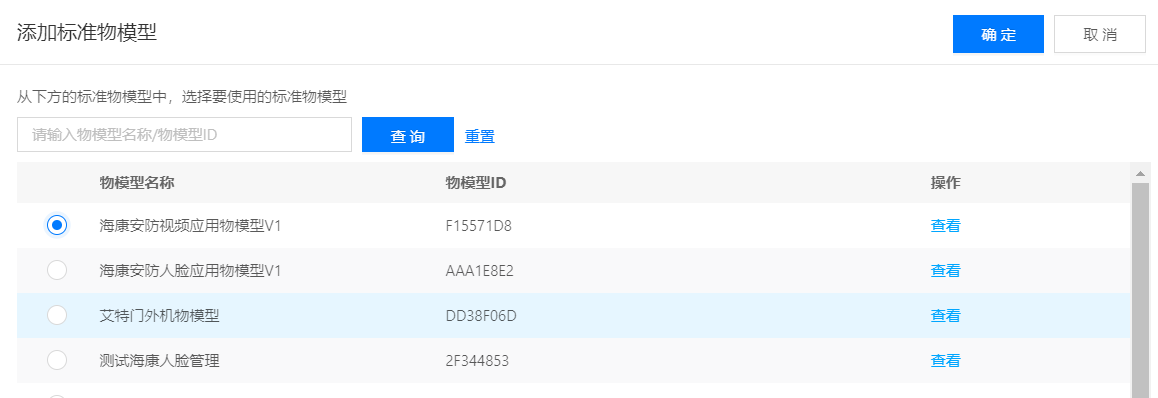
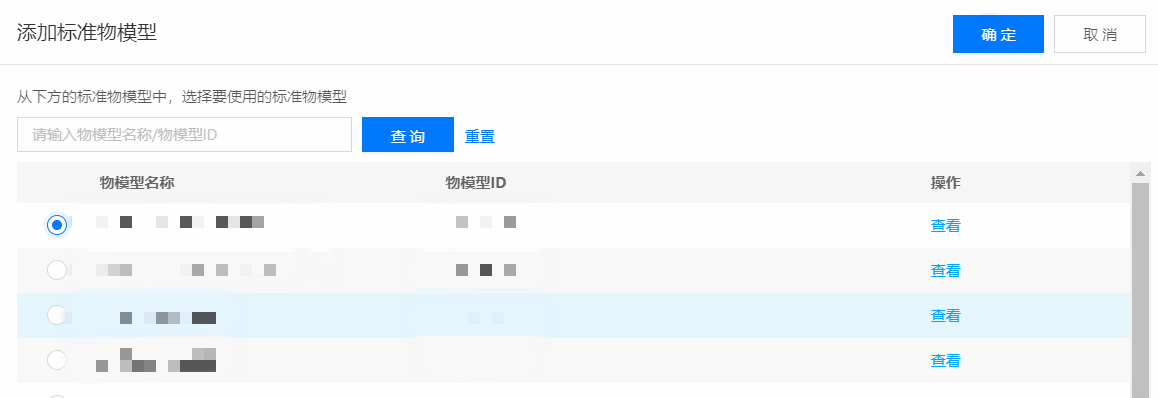
图片添加马赛克

diff --git a/documentation/IoT/IoT-Estate/Introduction/Product-Overview.md b/documentation/IoT/IoT-Estate/Introduction/Product-Overview.md
@@ -1,6 +1,6 @@
 # 产品概述
 
-智能生活物联网平台是一个将社区内的智能硬件设备进行统一接入与管理的平台，并提供统一标准的应用接入服务来实现对设备的管理和控制。平台采取租户模式，为不同用户提供统一化、标准化的云上租赁服务，用户可按需购买并创建接入项目和对接应用。平台提供安全可靠的设备连接通信能力与管理能力，帮助用户将海量设备数据采集上云，同时提供了设备数据转发，设备存储到京东云众多云产品服务，极大降低用户设备对接管理成本
+智能生活物联网平台是一个将社区内的智能硬件设备进行统一接入与管理的平台，并提供统一标准的应用接入服务来实现对设备的管理和控制。平台采取租户模式，为不同用户提供统一化、标准化的云上租赁服务，用户可按需购买并创建接入项目和对接应用。平台提供安全可靠的设备连接通信能力与管理能力，帮助用户将海量设备数据采集上云，同时提供了设备数据转发，设备存储到京东云众多云产品服务，极大降低用户设备对接管理成本。
 
 智能生活物联网平台的主要功能包括：
 

diff --git a/documentation/IoT/IoT-Estate/Operation-Guide/Device-Manager/Create-Device.md b/documentation/IoT/IoT-Estate/Operation-Guide/Device-Manager/Create-Device.md
@@ -6,11 +6,11 @@
 
 3.点击页面右上方 **创建**
 
-![管理设备](../../../../../image/IoT/IoT-Estate/Device-Manager/Manage-Device.png)
+![管理设备](../../../../../image/IoT/IoT-Estate/Device-Manager/Manage-Device.jpg)
 
 4.填写设备的基本信息、设备名称、MAC地址等
 
-![注册设备](../../../../../image/IoT/IoT-Estate/Device-Manager/Create-Device.png)
+![注册设备](../../../../../image/IoT/IoT-Estate/Device-Manager/Create-Device.jpg)
 
 **基本信息**
 - 选择产品：下拉选择要创建设备所属产品
@@ -36,11 +36,11 @@
 
 可根据ID编号，设备名称，所属产品，设备状态，节点类型等条件进行设备信息查询。点击重置可清空已选查询条件
 
-![查询设备](../../../../../image/IoT/IoT-Estate/Device-Manager/Query-Device.png)
+![查询设备](../../../../../image/IoT/IoT-Estate/Device-Manager/Query-Device.jpg)
 
 
  ## 删除设备
 
 在设备列表页面点击要删除的设备对应的**删除**按钮，输入当前登录用户密码进行验证，点击**删除**按钮
 
-![删除设备](../../../../../image/IoT/IoT-Estate/Device-Manager/Delete-Device.png)
+![删除设备](../../../../../image/IoT/IoT-Estate/Device-Manager/Delete-Device.jpg)

diff --git a/documentation/IoT/IoT-Estate/Developer-Guide/Device-SDK-Introduction.md b/documentation/IoT/IoT-Estate/Developer-Guide/Device-SDK-Introduction.md
@@ -1,6 +1,6 @@
 # 概述
 
-设备厂商通过集成设备SDK的方式来实现设备接入智能生活物联网平台。注意：集成的设备必须要支持TCP/IP协议，其他非IP设备需要通过网关采用MQTT协议才能接入物联管理平台。 本平台提供的SDK面向MQTT Java语言开发者。本文档用于指导开发者如何实现设备的快速接入，如果开发者需要了解SDK细节，可参考用户开发手册
+设备厂商通过集成设备SDK的方式来实现设备接入智能生活物联网平台。注意：集成的设备必须要支持TCP/IP协议，其他非IP设备需要通过网关采用MQTT协议才能接入物联管理平台。 本平台提供的SDK面向MQTT Java语言开发者。本文档用于指导开发者如何实现设备的快速接入，如果开发者需要了解SDK细节，可参考用户开发手册。
 
 # 获取SDK开发包
 目前SDK提供了Java语言开发包，点击下载  [设备直连SDK-Java](../Related-Resources/设备直连SDK-Java.zip)

diff --git a/documentation/IoT/IoT-Estate/Operation-Guide/Device-Manager/Device-Info.md b/documentation/IoT/IoT-Estate/Operation-Guide/Device-Manager/Device-Info.md
@@ -10,20 +10,20 @@
 
 3.设备管理页可根据设备名称、设备ID、节点类型、设备状态、档案信息来进行搜索
 
-![编辑设备](../../../../../image/IoT/IoT-Estate/Device-Manager/Device-Info.png)
+![编辑设备](../../../../../image/IoT/IoT-Estate/Device-Manager/Device-Info.jpg)
 
 
 ### 证书下载
 
 在设备信息页面点击 设备证书栏的**点击下载**，即可下载设备证书
 
-![设备证书-档案](../../../../../image/IoT/IoT-Estate/Device-Manager/Certify-Profile.png)
+![设备证书-档案](../../../../../image/IoT/IoT-Estate/Device-Manager/Certify-Profile.jpg)
 
 ## 管理设备影子
 
 在编辑设备页点击设备影子tab，选择要修改的设备属性，进行下发
 
-![设备影子](../../../../../image/IoT/IoT-Estate/Device-Manager/Device-Shadow.png)
+![设备影子](../../../../../image/IoT/IoT-Estate/Device-Manager/Device-Shadow.jpg)
 
 ## 子设备管理
 

diff --git a/documentation/IoT/IoT-Estate/Operation-Guide/Project-Manager/Manage-Project-Device.md b/documentation/IoT/IoT-Estate/Operation-Guide/Project-Manager/Manage-Project-Device.md
@@ -7,16 +7,16 @@
 2.在右侧滑窗中的设备列表里，勾选想要添加到项目中的设备
 
 
-![项目设备](../../../../../image/IoT/IoT-Estate/Project-Manager/Project-Device.png)
+![项目设备](../../../../../image/IoT/IoT-Estate/Project-Manager/Project-Device.jpg)
 
 
 
 
-![添加设备](../../../../../image/IoT/IoT-Estate/Project-Manager/Project-Add-Device.png)
+![添加设备](../../../../../image/IoT/IoT-Estate/Project-Manager/Project-Add-Device.jpg)
 
 
  ## 移除设备
 
 在编辑项目页，**设备管理tab**下点击某个设备的**移除**按钮，即可解绑设备和项目的关系，同时也支持勾选多个设备后再点击**批量移除**按钮，批量解绑设备与项目的关系
 
-![删除项目](../../../../../image/IoT/IoT-Estate/Project-Manager/Project-Remove-Device.png)
+![删除项目](../../../../../image/IoT/IoT-Estate/Project-Manager/Project-Remove-Device.jpg)

diff --git a/documentation/IoT/IoT-Estate/Operation-Guide/Rule-Engine/Create-Rule.md b/documentation/IoT/IoT-Estate/Operation-Guide/Rule-Engine/Create-Rule.md
@@ -19,7 +19,7 @@
 
 * 规则名称：支持2-30个字符内的中文、英文、数字、下划线（_）和中划线（-）
 * 数据来源：点击**数据来源**按钮，在右滑弹窗里勾选想要转发的设备，被勾选的设备代表其上报到平台的数据将被转发到对应的地址
-![数据来源](../../../../../image/IoT/IoT-Estate/Rule-Engine/Choose-Origin.png)
+![数据来源](../../../../../image/IoT/IoT-Estate/Rule-Engine/Choose-Origin.jpg)
 
 * 上报数据示例：说明设备上报的数据字段以及字段类型
 

diff --git a/documentation/IoT/IoT-Estate/Getting-Started/Login-IoT-Platform.md b/documentation/IoT/IoT-Estate/Getting-Started/Login-IoT-Platform.md
@@ -6,7 +6,7 @@
 
 ![用户登录](../../../../image/IoT/IoT-Estate/Getting-Started/Service-Detail.png)3.使用服务列表所展示的账号和初始密码，登录智能生活物联网平台
 
-![服务列表](../../../../image/IoT/IoT-Estate/Getting-Started/Service-List.png)
+![服务列表](../../../../image/IoT/IoT-Estate/Getting-Started/Service-List.jpg)
 
 ![用户登录](../../../../image/IoT/IoT-Estate/Getting-Started/Login.png)
 

diff --git a/documentation/IoT/IoT-Estate/Getting-Started/Create-Tenant.md b/documentation/IoT/IoT-Estate/Getting-Started/Create-Tenant.md
@@ -11,5 +11,5 @@
 
 4.支付完成后会自动跳转至服务列表页，可查看本次购买所分配的账号和初始密码
 
-![购买详情](../../../../image/IoT/IoT-Estate/Getting-Started/Service-List.png)
+![购买详情](../../../../image/IoT/IoT-Estate/Getting-Started/Service-List.jpg)
 

diff --git a/documentation/IoT/IoT-Estate/Operation-Guide/Product-Manager/Create-Product.md b/documentation/IoT/IoT-Estate/Operation-Guide/Product-Manager/Create-Product.md
@@ -8,7 +8,7 @@
 
 3.产品管理页可根据节点类型、产品名称、产品ID来进行搜索
 
-![产品管理](../../../../../image/IoT/IoT-Estate/Product-Manager/Manage-Product.png)
+![产品管理](../../../../../image/IoT/IoT-Estate/Product-Manager/Manage-Product.jpg)
 
  ## 创建产品
 
